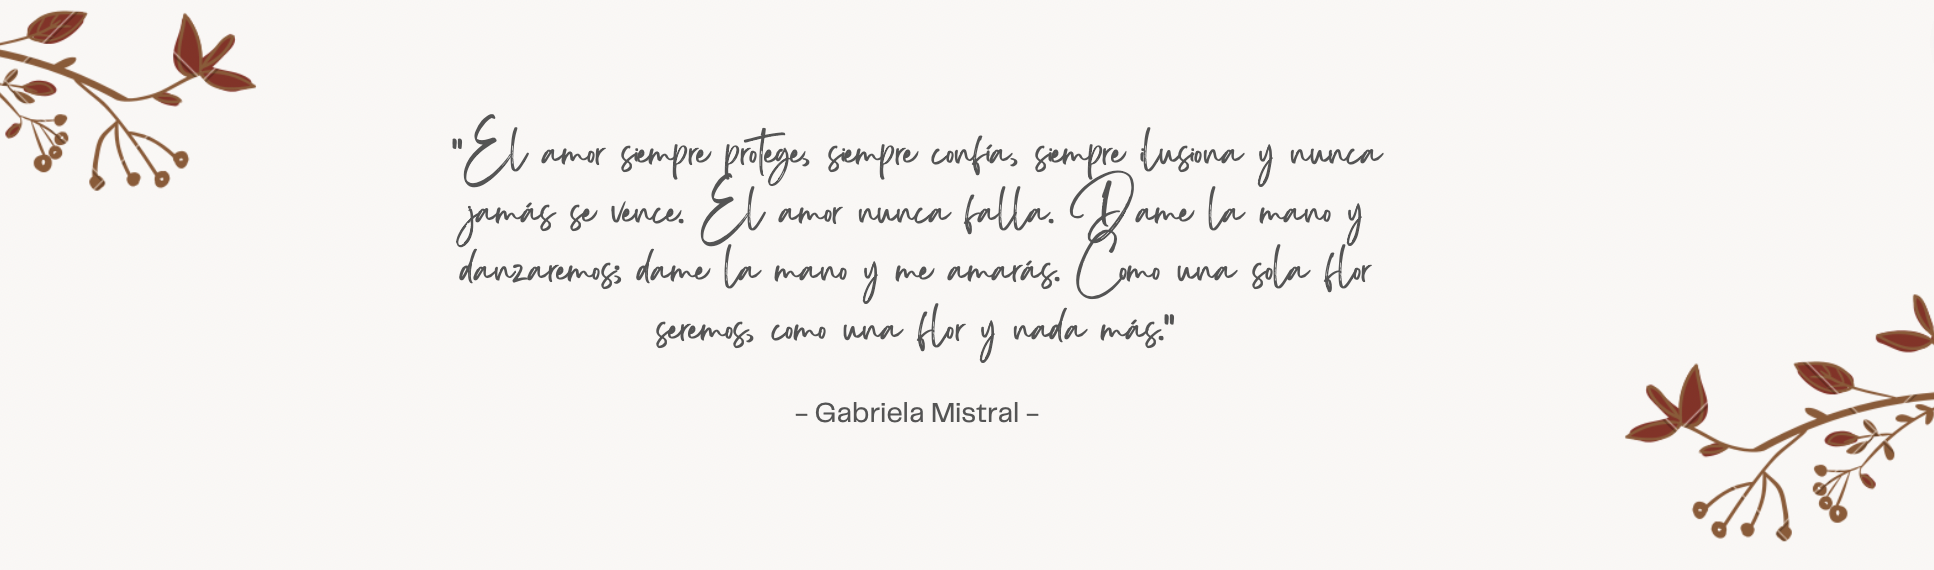
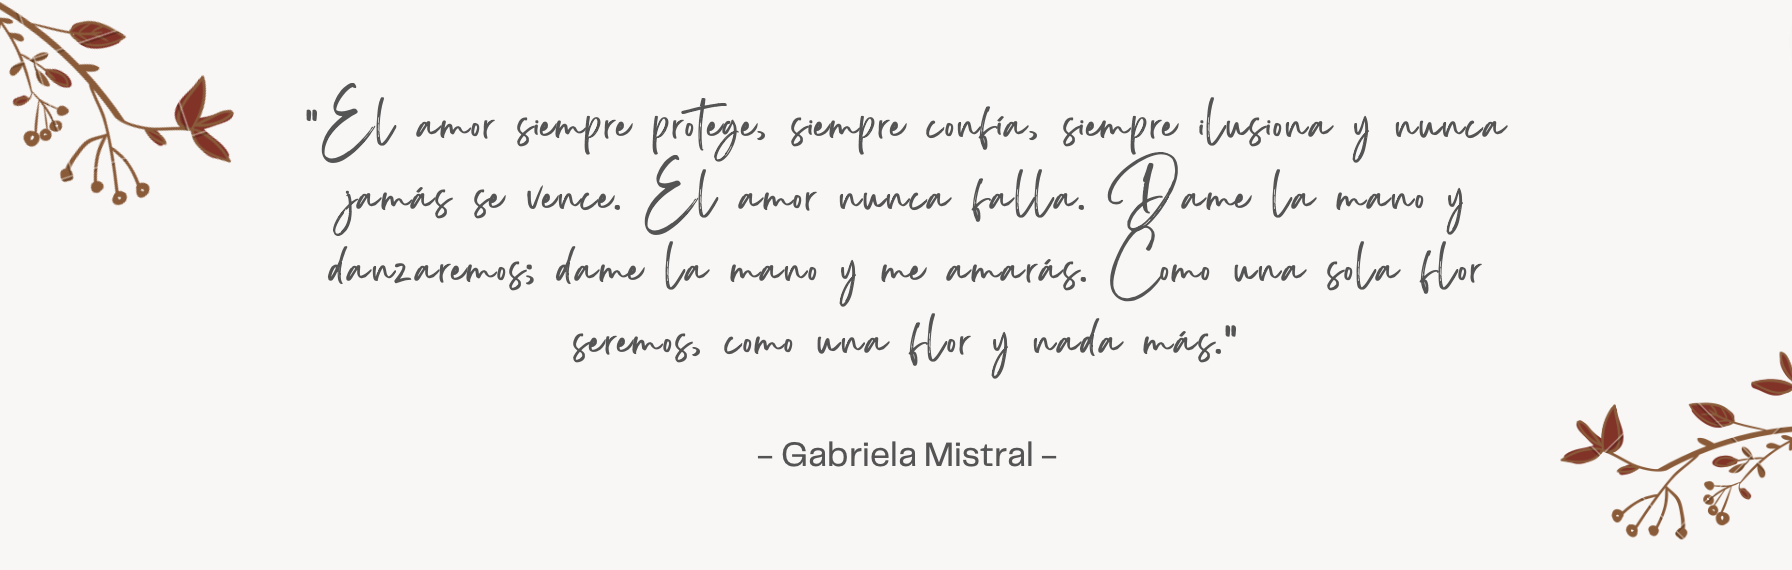
update

diff --git a/src/components/Asistencia.js b/src/components/Asistencia.js
@@ -5,22 +5,22 @@ import SvgIcon from '@mui/material/SvgIcon';
 const Asistencia = () => {
   return (
     <>
-    <h2 className='text-center'>Confirma tu asistencia</h2>
-    <p className='text-center pb-2'>Te pedimos confirmar tu asistencia, ingresando al siguiente link.</p>
+    <h2 className='text-center'>Dónde hospedarte?</h2>
+    <p className='text-center pb-2'>Lorem ipsum dolor sit amet consectetur adipisicing elit. Nemo tenetur laborum saepe perspiciatis praesentium labore enim maxime rerum laudantium voluptates, quidem aliquam, libero voluptatum sint quis ducimus! Tempore, consequatur laudantium..</p>
 
-    <div className='d-flex justify-content-center p-4 '>
+    {/* <div className='d-flex justify-content-center p-4 '>
     <img
          className="animate__animated animate__bounce animate__slower animate__infinite	infinite"
          src="../../images/list.png"
          alt=""
          style={{ height: "180px" }}
        />
-    </div>
+    </div> */}
     <div className='d-flex text-center justify-content-evenly'>
-    <div className='d-flex justify-content-center'>
+    {/* <div className='d-flex justify-content-center'>
         <button style={{padding:"10px", color:"white", width:'100px',border:"none", borderRadius: "40px", background:" #915832", boxShadow: "inset 5px 5px 10px #a7653a,inset -5px -5px 10px #a7653a"}}>
         <a className='text-white text-decoration-none' target="_blank" href="#">Ir a</a></button>
-        </div>
+        </div> */}
          
     </div>
 

diff --git a/src/components/Padrinos.js b/src/components/Padrinos.js
@@ -6,7 +6,6 @@ const Padrinos = () => {
   return (
     <>
         <h2 className='text-center'>Padres</h2>
-        <p className='container_p text-center p--center'>"Felices y emocionados de acompañar la decisión de nuestros hijos de unir sus vidas. <br/> Que el ejemplo y amor de nuestras familias siga creciendo en la que ellos estan iniciando juntos."</p>
         <div className=' d-flex text-center justify-content-evenly p-4'>
             <div className='container_h3'>
                 <h3>
@@ -20,6 +19,7 @@ const Padrinos = () => {
             </div>
             
         </div>
+        <p className='container_p text-center p--center mt-4'>"Felices y emocionados de acompañar la decisión de nuestros hijos de unir sus vidas. <br/> Que el ejemplo y amor de nuestras familias siga creciendo en la que ellos estan iniciando juntos."</p>
     </>
   )
 }

diff --git a/src/styles/style.css b/src/styles/style.css
@@ -20,7 +20,7 @@ font-family: 'Updock', cursive;*/
 }
 
 #main{
-  background-image: url('./../assets/phrase.png');
+  background-image: url('./../assets/phrase1.png');
   background-size: cover;
   background-repeat: no-repeat;
   background-position: center;
@@ -29,7 +29,7 @@ font-family: 'Updock', cursive;*/
 
 @media (max-width: 1440px) {
   #main {
-    height: 400px;
+    height: 450px;
   }
 }
 @media (max-width: 768px) {
@@ -44,6 +44,18 @@ font-family: 'Updock', cursive;*/
   }
 }
 
+
+.noni{
+  justify-content: center;
+  flex-direction: column;
+  align-items: center;
+}
+
+.nokids{
+  font-weight: 700;
+  margin-top: 10px;
+  margin-bottom: 0;
+}
 .navbar__container{
     background-color: #591F12;
     filter: opacity(0.8);

diff --git a/src/components/FechaLugar.js b/src/components/FechaLugar.js
@@ -35,7 +35,10 @@ const FechaLugar = () => {
         <a className='text-white text-decoration-none' target="_blank" href="https://calendar.google.com/event?action=TEMPLATE&tmeid=N2pxbjdubzNtaXI4dXEzM2FwaTAxNGhxZTcgcmV5bmFoLmNsYXVkaWFlQG0&tmsrc=reynah.claudiae%40gmail.com">Agendar <SvgIcon component={TodayRoundedIcon} fontSize='medium'/></a></button>
         </div>
         <div className='text-center pt-3'>
-        <p>- NO NIÑOS -</p>
+        <div className='d-flex noni'>
+
+        <img src="../../images/nokids.png" alt="" width={40} height={40} /><p className='nokids'> NO NIÑOS  </p>
+        </div>
         </div>
         
     </>

diff --git a/src/components/Sociales.js b/src/components/Sociales.js
@@ -7,7 +7,7 @@ const Sociales = () => {
                 <h2 className='text-center'>Compartimos este día juntos</h2>
                 <p className='text-center pb-2'>Comparte tus fotos y videos de ese hermoso día, utiliza el</p>
 
-                <h4 className='text-center pb-3' style={{fontSize:"1.8rem", color:"#05331B"}}>#camuyfabri</h4>
+                <h4 className='text-center pb-3' style={{fontSize:"1.8rem", color:"#05331B"}}>#moshisday</h4>
                 <div className='d-flex text-center justify-content-evenly'>
                 <div className='d-flex justify-content-center'>
                 

diff --git a/src/App.js b/src/App.js
@@ -80,9 +80,9 @@ const App = () => {
       <Hr/>
         <Asistencia/>
       </section>
-      <div className='backgroundFixed01'>
+      {/* <div className='backgroundFixed01'>
 
-      </div>
+      </div> */}
       <div className='hr__second text_ending ' style={{height:'200px'}} >
             <h2 className='text-light text-center pt-5' >¡Gracias por compartir este día con nosotros!</h2>
             <div className='text-white fs-4 text-center' >
